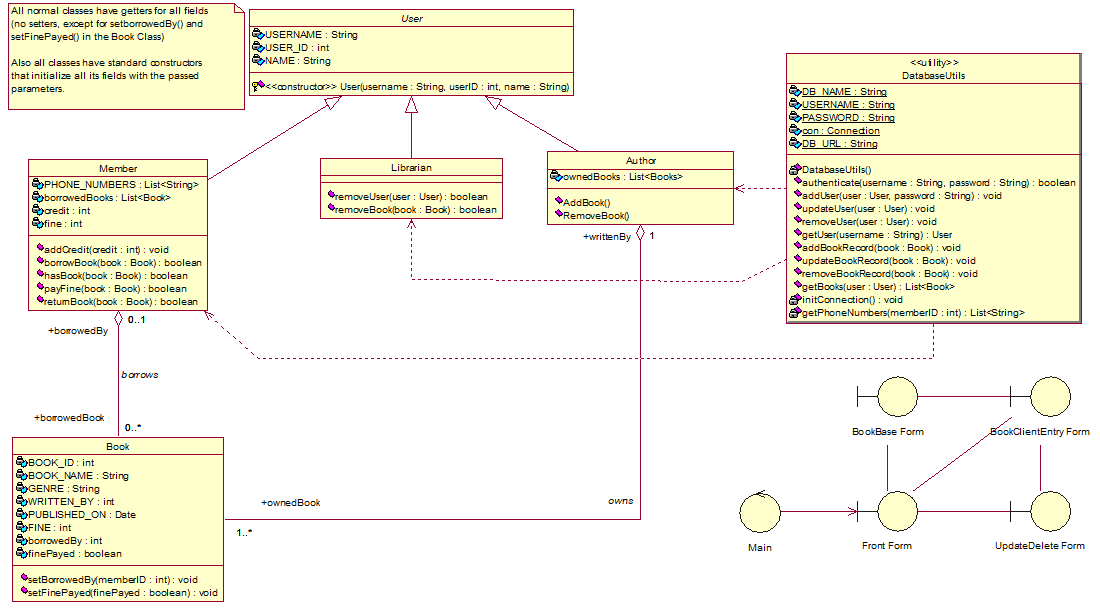
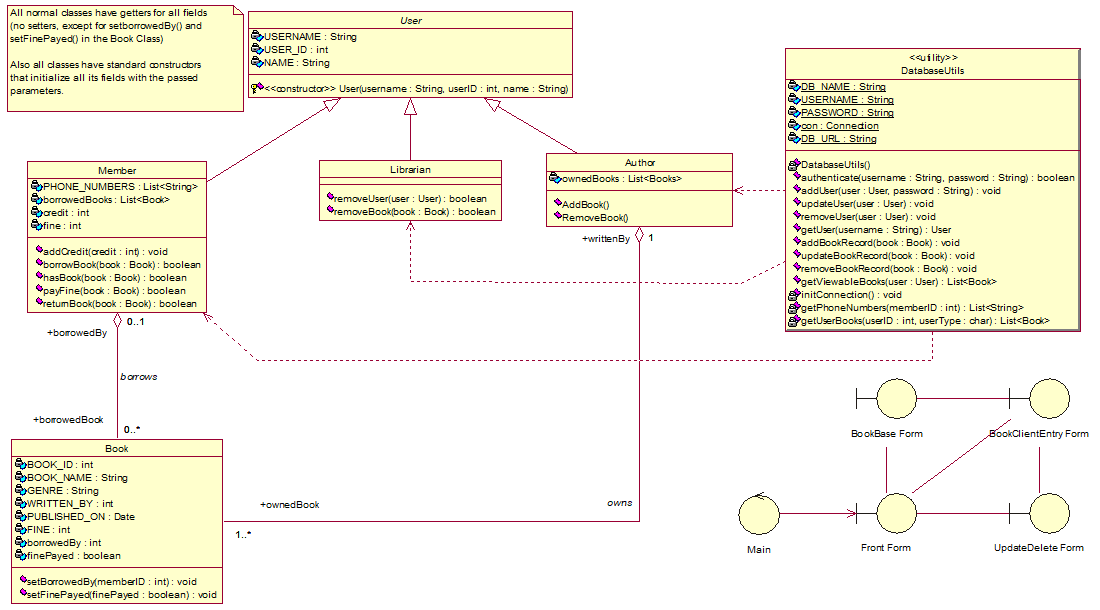
- Filled-in authenticate(), addUser(), getUser()and  getUserBooks() in DatabaseUtils class - Changed getBooks() to getViewableBooks() - Added a helper method getUserBooks() in DatabaseUtils class - Created the database - Updated DatabaseUtils class in class diagram

diff --git a/src/librarymanagementsystem/DatabaseUtils.java b/src/librarymanagementsystem/DatabaseUtils.java
@@ -1,14 +1,279 @@
-/*
- * To change this license header, choose License Headers in Project Properties.
- * To change this template file, choose Tools | Templates
- * and open the template in the editor.
- */
 package librarymanagementsystem;
+
+import librarymanagementsystem.Users.*;
+import java.sql.*;
+import java.util.ArrayList;
+import java.util.List;
 
 /**
  *
- * @author Kai22
+ * @author Khalid Tarek
  */
 public class DatabaseUtils {
+    private static final String DB_NAME = "LibraryDatabase";
+    private static final String USERNAME = "sa";
+    private static final String PASSWORD = "12345";
+    private static final String DB_URL = "jdbc:sqlserver://localhost\\SQLEXPRESS;"
+                                        + "databaseName=" + DB_NAME + ";"
+                                        + "user=" + USERNAME + ";"
+                                        + "password=" + PASSWORD + ";";
     
+    private static Connection con;
+    
+    private DatabaseUtils(){}
+    
+    public static boolean authenticate(String username, String password){
+        boolean loginResult = false;
+
+        initConnection();
+        Statement stmt = null;
+        ResultSet result = null;
+        try {
+            stmt = con.createStatement();
+            String query = "SELECT * FROM accounts where username='" + username + "' "
+                            + "and password='" + password + "'";
+            result = stmt.executeQuery(query);
+
+            loginResult = result.next();
+        } catch (SQLException ex) {
+            System.out.println("Error while authenticating: " + ex);
+        } finally {
+            if (con != null) try {con.close();} catch (SQLException ex){}
+            if (stmt != null) try {stmt.close();} catch (SQLException ex){}
+            if (result != null) try {result.close();} catch (SQLException ex){}
+        }
+
+        return loginResult;
+    }
+
+    public static void addUser(User user, String password){
+        if(user == null) return;
+        
+        int userID = 0;
+        String username = user.getUSERNAME();
+        String name = user.getNAME();
+        
+        initConnection();
+        Statement stmt = null;
+        ResultSet result = null;
+        
+        try {
+            stmt = con.createStatement();
+            
+            String query = "INSERT INTO accounts VALUES ('" + username + "', '"
+                    + password + "')";
+            
+            if(stmt.executeUpdate(query) != 1) {
+                System.out.println("Account wasn't added successfully");
+                return;
+            }
+            
+            if(user instanceof Member){
+                result = stmt.executeQuery("SELECT MAX(member_ID) member_ID FROM members");
+                if(result.next()) userID = result.getInt("member_ID") + 1;
+                
+                Member member = (Member) user;
+                List<String> phoneNumbers = member.getPHONE_NUMBERS();
+                int credit = member.getCredit();
+                int fine = member.getFine();
+                
+                query = "INSERT INTO members VALUES ("
+                        + userID + ", '" + username + "', '" 
+                        + name + "', " + credit + ", " + fine + ")";
+                
+                if(stmt.executeUpdate(query) != 1) {
+                    System.out.println("Member wasn't added successfully");
+                    return;
+                }
+                
+                for(String number : phoneNumbers){
+                    query = "INSERT INTO phones VALUES ('" + username + "', " + number + ")";
+                    if(stmt.executeUpdate(query) != 1) {
+                        System.out.println("Error happened while adding numbers");
+                        return;
+                    }
+                }
+                
+            } else if (user instanceof Author) {
+                result = stmt.executeQuery("SELECT MAX(author_ID) author_ID FROM authors");
+                if(result.next()) userID = result.getInt("author_ID") + 1;
+                
+                query = "INSERT INTO authors VALUES (" + userID + ", '" 
+                        + username + "', '" + name + "')";
+                
+                if(stmt.executeUpdate(query) != 1){
+                    System.out.println("Author wasn't added successfully");
+                    return;
+                }
+                
+            }
+
+        } catch (SQLException ex) {
+            System.out.println(ex);
+        } finally {
+            if (con != null) try {con.close();} catch (SQLException ex){}
+            if (stmt != null) try {stmt.close();} catch (SQLException ex){}
+            if (result != null) try {result.close();} catch (SQLException ex){}
+        }
+    }
+    
+    public static void updateUser(User user) {
+        
+    }
+    
+    public static void removeUser(User user){
+        
+    }
+    
+    public static User getUser(String username){
+        
+        initConnection();
+        Statement stmt = null;
+        ResultSet result = null;
+        try {
+            stmt = con.createStatement();
+            
+            //Check if there's a member record with the passed username
+            String query = "SELECT * FROM members WHERE username='" + username + "'";
+            result = stmt.executeQuery(query);
+            if(result.next()){
+                int memberID = result.getInt("member_ID");
+                String memberName = result.getString("member_name");
+                List<String> phoneNumbers = getPhoneNumbers(memberID);
+                int credit = result.getInt("credit");
+                int fine = result.getInt("fine");
+                List<Book> borrowedBooks = getUserBooks(memberID, 'm');
+                
+                return new Member(username, memberID, memberName, phoneNumbers, 
+                        borrowedBooks, credit, fine);
+            }
+            
+            //Check if there's a librarian record with the passed username
+            query = "SELECT * FROM librarians WHERE username='" + username + "'";
+            result = stmt.executeQuery(query);
+            if(result.next()){
+                int librarianID = result.getInt("librarian_ID");
+                String librarianName = result.getString("librarian_name");
+                
+                return new Librarian(username, librarianID, librarianName);
+            }
+            
+            //Check if there's an author record with the passed username
+            query = "SELECT * FROM authors WHERE username'" + username + "'";
+            result = stmt.executeQuery(query);
+            if(result.next()){
+                int authorID = result.getInt("author_ID");
+                String authorName = result.getString("author_name");
+                List<Book> ownedBooks = getUserBooks(authorID, 'a');
+                
+                return new Author(username, authorID, authorName, ownedBooks);
+            }
+        } catch (SQLException ex) {
+            System.out.println("Error while getting user: " + ex);
+        } finally {
+            if (con != null) try {con.close();} catch (SQLException ex){}
+            if (stmt != null) try {stmt.close();} catch (SQLException ex){}
+            if (result != null) try {result.close();} catch (SQLException ex){}
+        }
+        
+        //Otherwise return null if no users were found with the passed username
+        return null;
+    }
+    
+    public static void addBookRecord(Book book){
+        
+    }
+    
+    public static void updateBookRecord(Book book){
+        
+    }
+    
+    public static void removeBookRecord(Book book){
+        
+    }
+    
+    public static List<Book> getViewableBooks(User user){
+        
+        if(user instanceof Member){
+            
+        } else if(user instanceof Librarian){
+            
+        } else if(user instanceof Author){
+            
+        }
+        
+        return new ArrayList<>();
+    }
+    
+    /**
+     * This method was taken from to satisfy the purposes of this utility class
+     * http://blog.salamtura.com/post/database-connection-utility-class-in-java/
+     */
+    private static void initConnection(){
+        try{
+            Class.forName("com.microsoft.sqlserver.jdbc.SQLServerDriver");
+        } catch (ClassNotFoundException ex) {
+            System.out.println("Can't load Driver: ClassNotFoundException");
+        } 
+        System.out.println(DB_URL);
+        try {
+            con = DriverManager.getConnection(DB_URL);
+        } catch (SQLException ex) {
+            System.out.println(ex);
+        }
+    }
+    
+    private static List<String> getPhoneNumbers(int memberID){
+        
+        return new ArrayList<>();
+    }
+    
+    private static List<Book> getUserBooks(int userID, char userType){
+        
+        List<Book> userBooks = new ArrayList<>();
+        
+        initConnection();
+        Statement stmt = null;
+        ResultSet result = null;
+        
+        try {
+            String query = "";
+            if (userType == 'm') {
+                query = "SELECT * FROM books WHERE borrowed_by='" + userID + "'";
+            } else if (userType == 'a') {
+                query = "SELECT * FROM books WHERE written_by='" + userID + "'";
+            }
+            
+            stmt = con.createStatement();
+            result = stmt.executeQuery(query);
+            
+            int bookID, writtenBy, fine, borrowedBy;
+            String bookName, bookGenre;
+            boolean finePayed;
+            Date publishedOn;
+            
+            while(result.next()){
+                bookID = result.getInt("book_ID");
+                bookName = result.getString("book_name");
+                bookGenre = result.getString("genre");
+                writtenBy = result.getInt("written_by");
+                publishedOn = result.getDate("published_on");
+                fine = result.getInt("fine");
+                borrowedBy = result.getInt("borrowed_y");
+                finePayed = result.getBoolean("fine_payed");
+                
+                userBooks.add(new Book(bookID, bookName, bookGenre, writtenBy, 
+                        publishedOn, fine, borrowedBy, finePayed));
+            }
+            
+            
+        } catch (SQLException ex) {
+            System.out.println("Error will getting user books: "+ ex);
+        } finally {
+            if (stmt != null) try {stmt.close();} catch (SQLException ex){}
+            if (result != null) try {result.close();} catch (SQLException ex){}
+        }
+        
+        return userBooks;
+    }
 }
